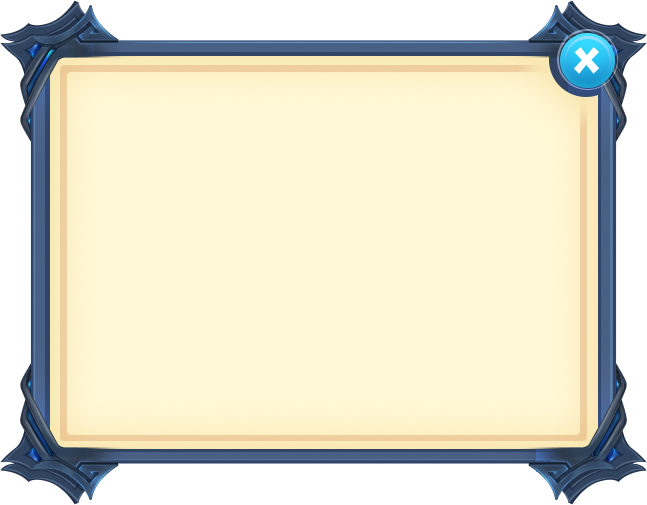
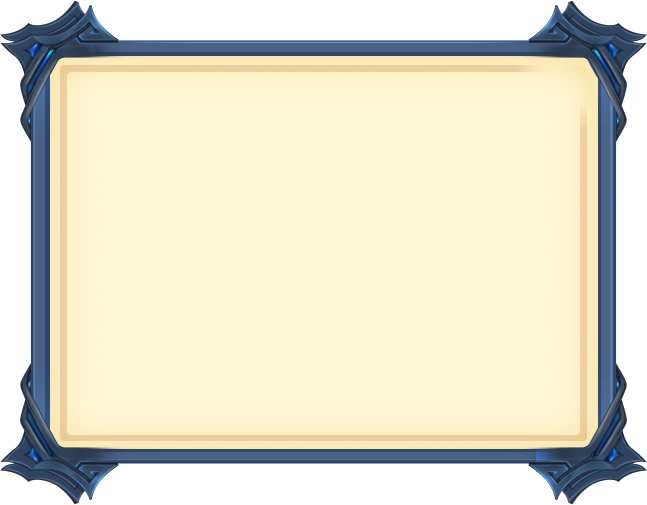
fix

Changed region(s): [[0.8346, 0.0594, 0.9583, 0.2079]]

diff --git a/apps/activity/lib/components/pop-start.js b/apps/activity/lib/components/pop-start.js
@@ -29,7 +29,6 @@ class PopStartPC extends React.Component {
                 <p>客服电话：</p>
                 <p>400-0322-988</p>
                 <p>010-65255966</p>
-                <div styleName="closePC" onClick={this.closeHandler}></div>
             </div>
         </div>
     }
@@ -62,7 +61,6 @@ class PopStartMobile extends React.Component {
                 <p>客服电话：</p>
                 <p>400-0322-988</p>
                 <p>010-65255966</p>
-                <div styleName="closeMobile" onClick={this.closeHandler}></div>
             </div>
         </div>
     }

diff --git a/apps/activity/lib/css/pop-start.css b/apps/activity/lib/css/pop-start.css
@@ -19,15 +19,6 @@
     text-align: center;
     background: url('../images/pop-start/startBg.png') no-repeat;
 }
-.closePC{
-    width: 78px;
-    height: 78px;
-    background: transparent;
-    position: absolute;
-    top: 22px;
-    right: 24px;
-    cursor: pointer;
-}
 .titlePC{
     font-size: 30px;
     color: #913e30;
@@ -72,13 +63,4 @@
     text-align: left;
     margin: auto;
     line-height: 36px;
-}
-.closeMobile{
-    width: 78px;
-    height: 78px;
-    background: transparent;
-    position: absolute;
-    top: 22px;
-    right: 24px;
-    cursor: pointer;
 }
